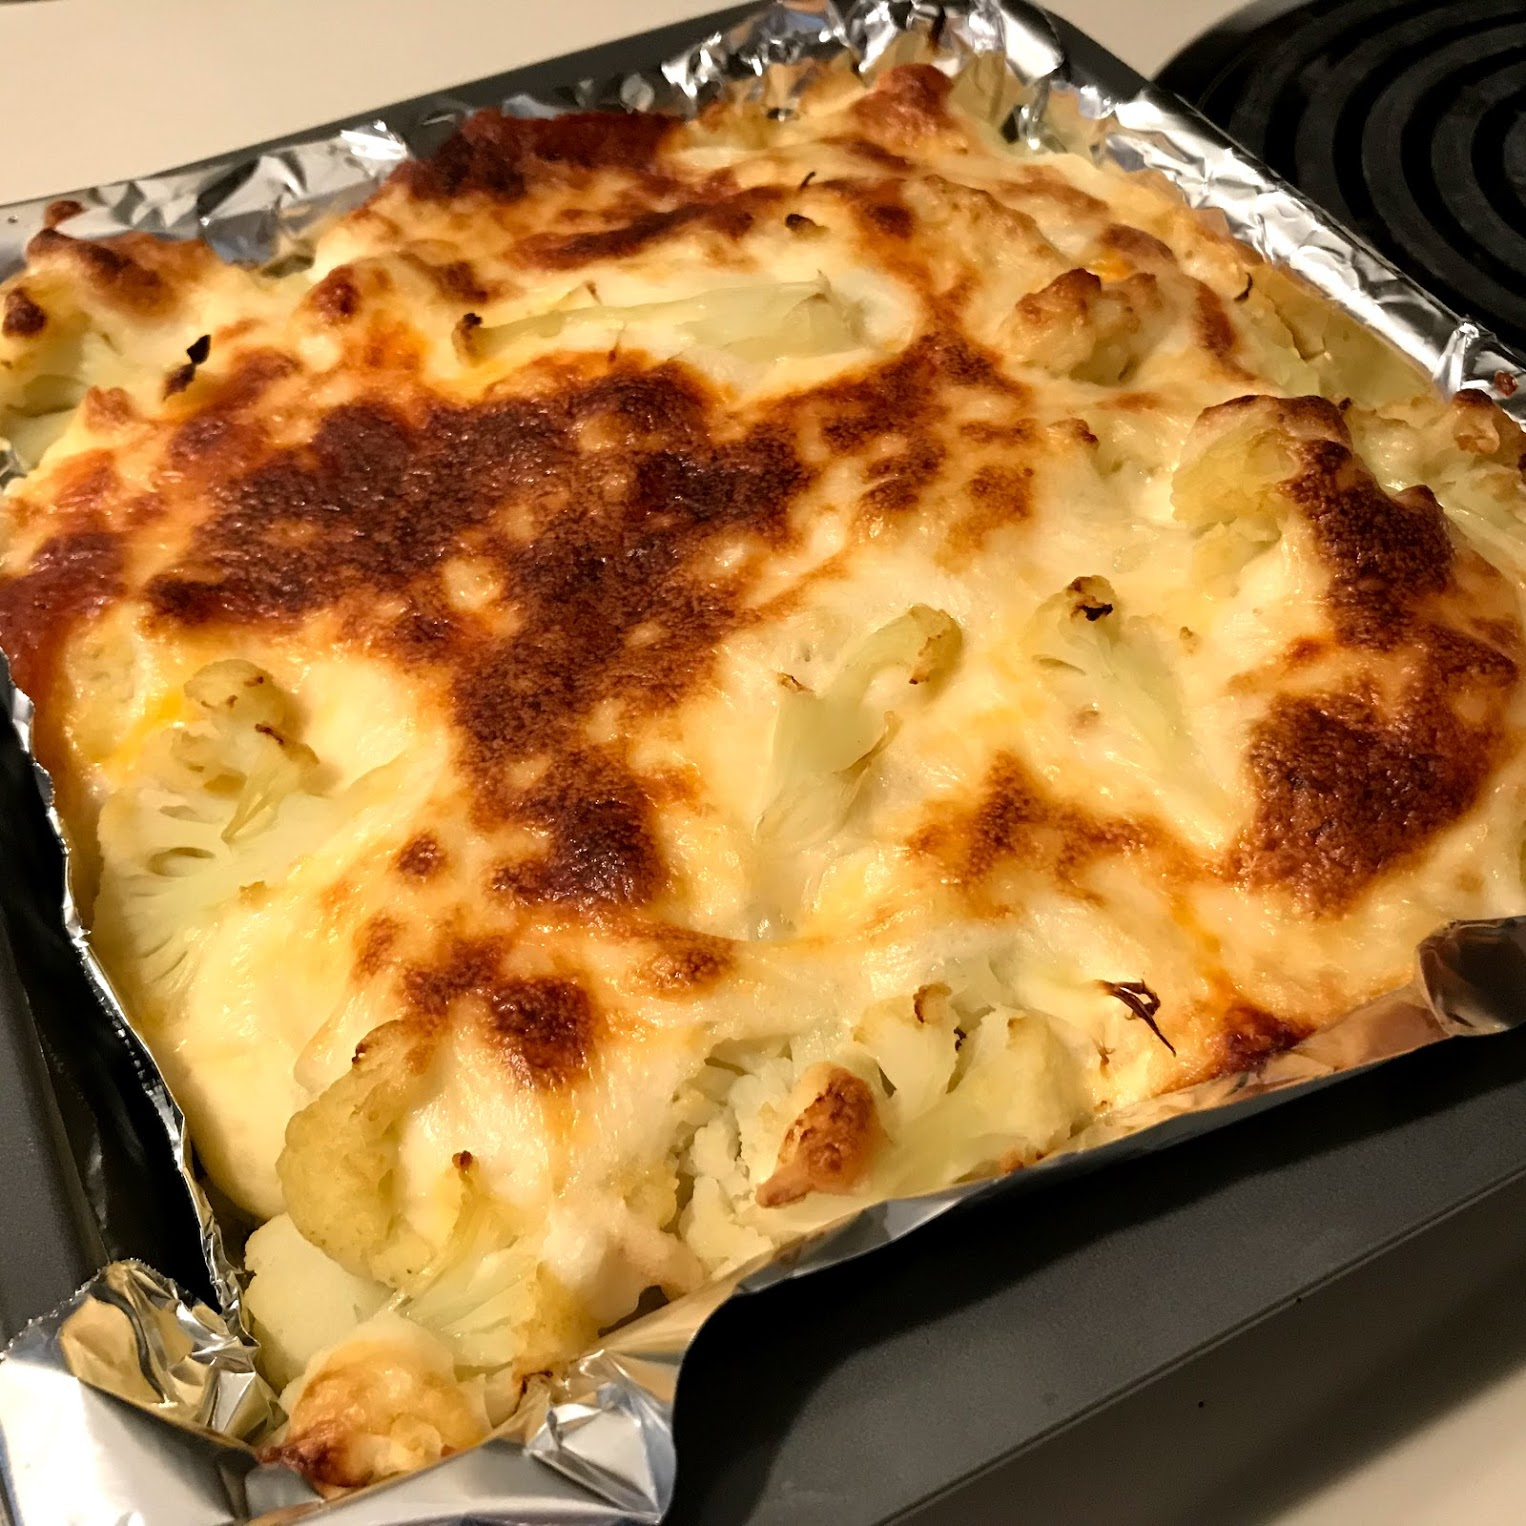
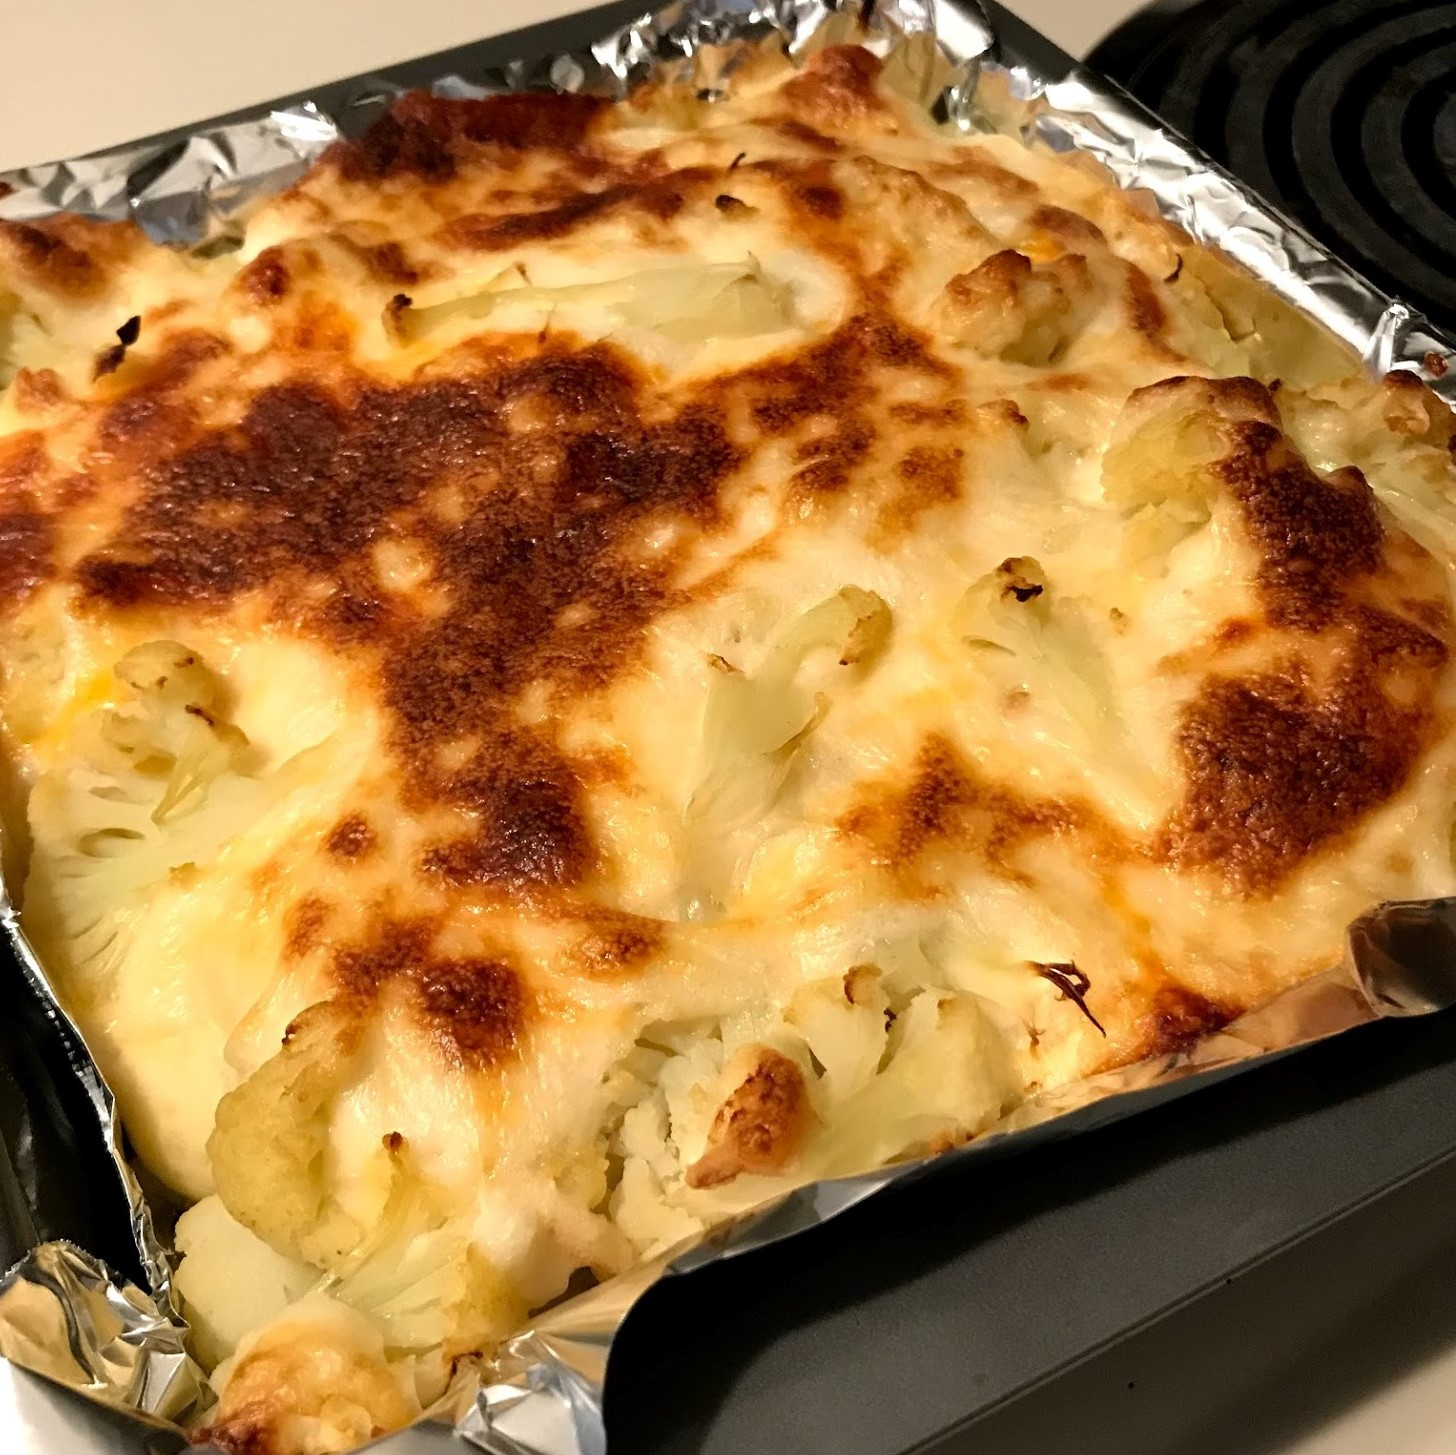
s

diff --git a/_posts/2019-03-17-creamy-cauliflower-cheese-bake.md b/_posts/2019-03-17-creamy-cauliflower-cheese-bake.md
@@ -106,7 +106,7 @@ img: recipe-creamy-cauliflower-cheese-bake.jpg
 
 ## Instructions
 
-1. Steam cauliflower until tender. I used my Instant Pot's STEAM function (3 min @ high).
+1. Steam cauliflower until fall-apart tender. I used my Instant Pot's STEAM function (5 min @ high).
 1. While you let the cauliflower cool, add butter and flour to a medium saucepan on medium heat and whisk together.
 1. When thoroughly mixed, add milk and turn heat down to low. Whisk frequently until sauce thickens.
 1. Stir in two-thirds of the cheese and turn off heat.
